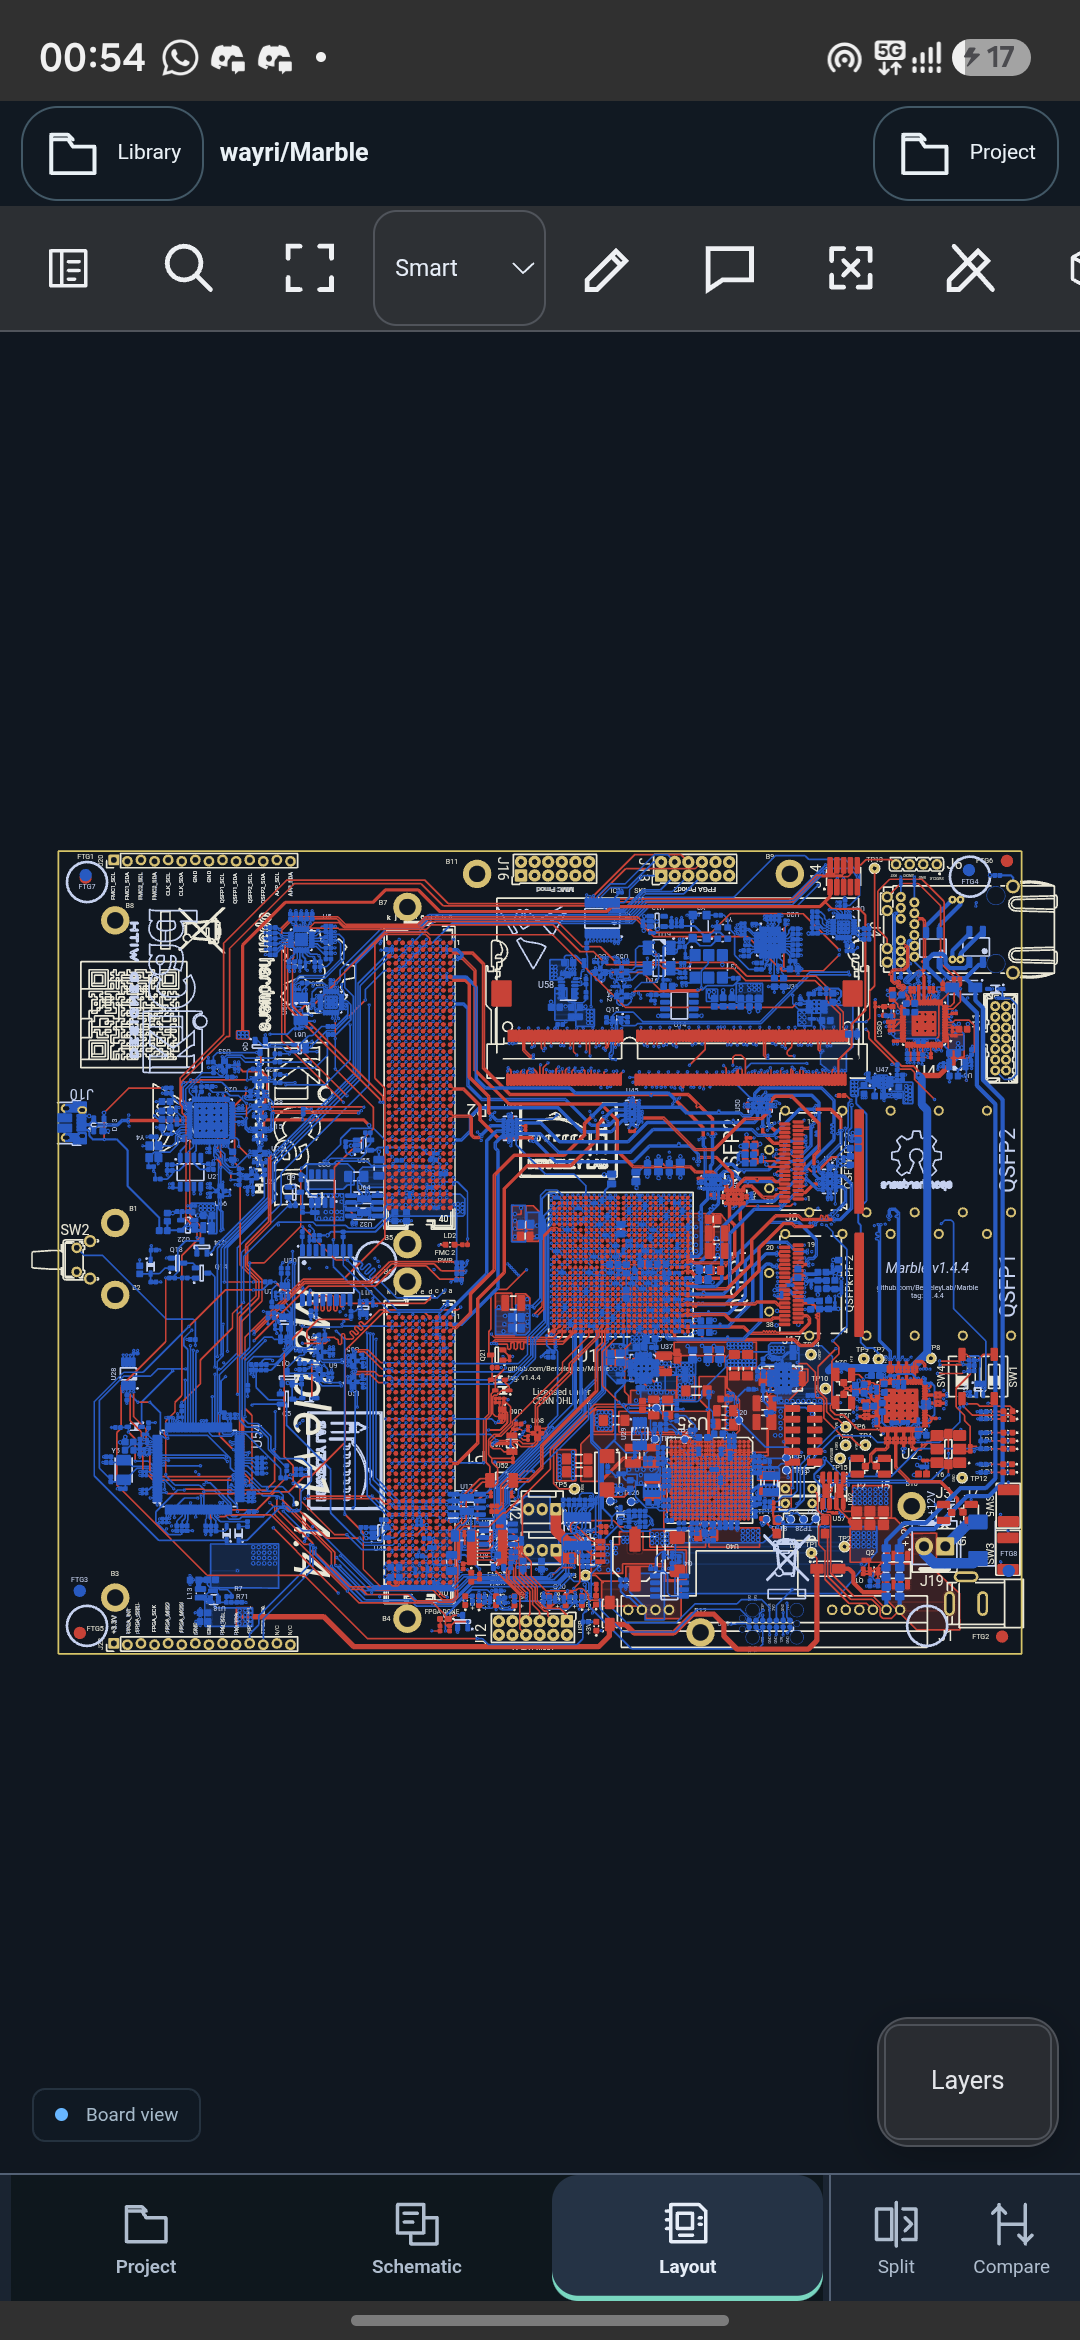
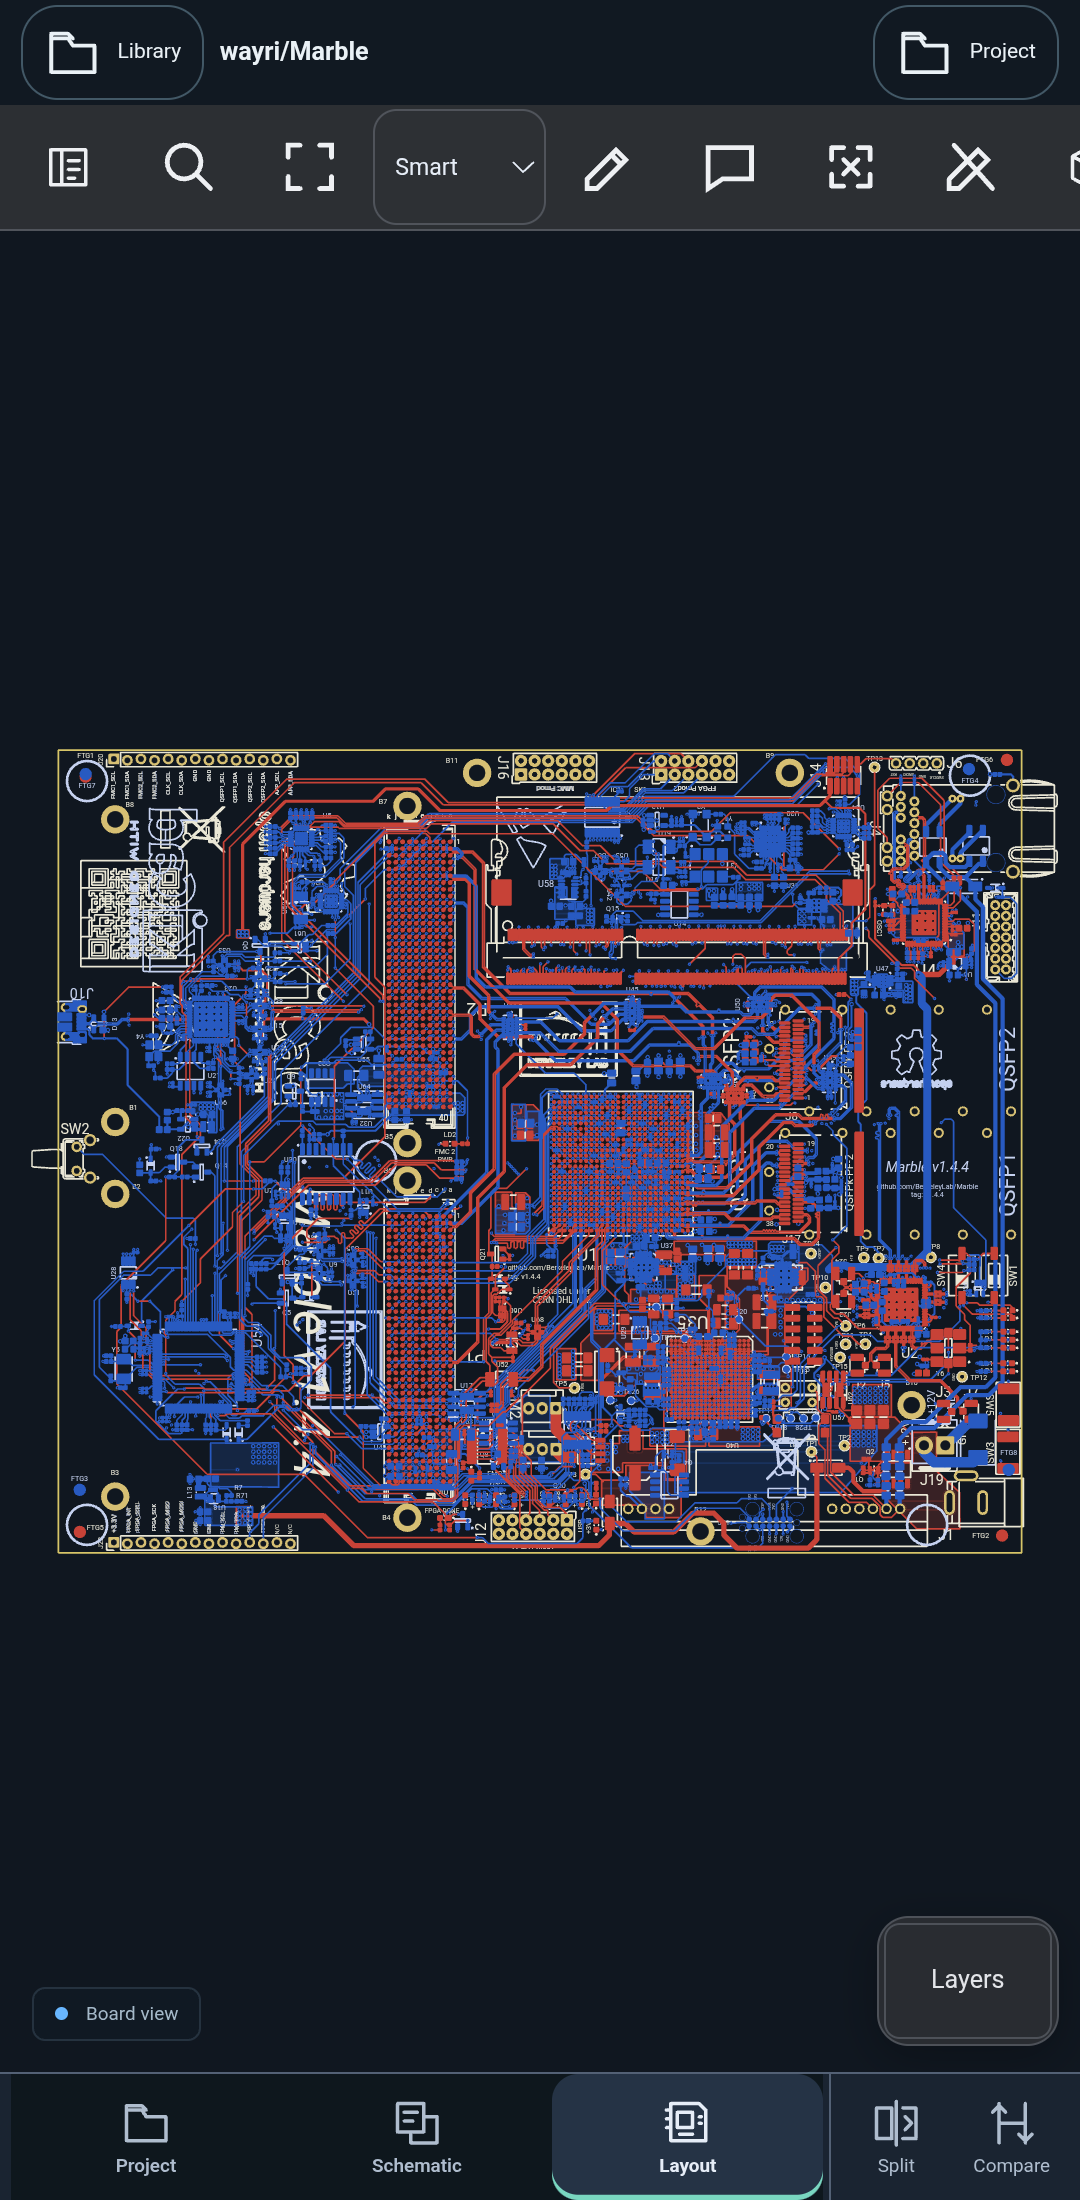
Crop system bars and taskbar fragments from public screenshots

diff --git a/docs/images/README.md b/docs/images/README.md
@@ -88,11 +88,11 @@ The Android capture build passed `assembleDebug`, `assembleDebugAndroidTest` and
 
 ## README platform galleries — 24 October 2026
 
-The expanded root README reuses retained screenshots; no UI mockups or generated images were added. New documentation copies are byte-for-byte copies of the original capture files. The documentation update is not a new app capture or a test of the newest APK/VSIX. Click-through images keep original resolution.
+The expanded root README reuses retained screenshots; no UI mockups or generated images were added. Documentation copies retain the original app pixels; the app-only crops listed below remove system/browser chrome. The documentation update is not a new app capture or a test of the newest APK/VSIX. Click-through images keep original resolution.
 
 | Documentation image | Retained source | Context |
 | --- | --- | --- |
-| `chrome/schematic.png` | `dist/chrome-store-0.12.49/screenshots/01-schematic-1280x800.png` | Installed Chrome extension, local PIC Programmer schematic from the public KiCad demo. Browser chrome is visible. |
+| `chrome/schematic.png` | `dist/chrome-store-0.12.49/screenshots/01-schematic-1280x800.png` | Installed Chrome extension, local PIC Programmer schematic from the public KiCad demo. Browser tab/address bars are cropped out. |
 | `chrome/pcb.png` | `dist/chrome-store-0.12.49/screenshots/02-pcb-1280x800.png` | Same installed Chrome extension and local PCB demo. No live repository authentication is demonstrated. |
 | `chrome/bom-field-table.jpg` | `dist/chrome-store-0.12.50/evidence/bom-layout-improved.jpg` | Loopback local workspace, PIC Programmer demo, expanded BoM table and compact header. No Chrome browser frame is in this capture. |
 | `android/marble-phone-layout.png` | `dist/ui-polish/marble-phone-layout.png` | Physical Samsung SM-A366E, Android development 1.55/code58, 14 October 2026; public Marble drawing. Retained device-test notes record a complete 2D render. It is not a capture of 1.59. |
@@ -117,3 +117,16 @@ The five files in `current/` show the production 0.12.62 renderer and shared wor
 - `pcb-workspace-0.12.62.png` and `schematic-workspace-0.12.62.png`: the production schematic/PCB viewer pages with the same public demo PCB, root schematic and `pic_sockets.kicad_sch`, supplied by a local read-only mock repository transport. The fixture revision identifier is synthetic; it is not an upstream KiCad commit. These demonstrate the current shared UI without live GitHub/GitLab authentication or posting.
 
[1 lines of base64/hex data omitted]
+
+
+## App-only crop corrections (2026-10-27)
+
+Reviewed all 72 documentation and VS Code screenshots, including enlarged top/bottom edges. Nine images needed corrections:
+
+| Files | Original size | Retained rectangle (left, top, right, bottom; exclusive right/bottom) | Result |
+| --- | --- | --- | --- |
+| `android/marble-phone-layout.png` | 1080 × 2340 | (0, 101, 1080, 2301) | 1080 × 2200; Android status/gesture bars removed |
+| `chrome/pcb.png`, `chrome/schematic.png` | 1280 × 800 | (0, 95, 1280, 800) | 1280 × 705; browser tab/address bars removed |
+| All six `vscode-extension/images/*.jpg` captures | 1441 × 891 | (0, 0, 1441, 858) | 1441 × 858; desktop taskbar fragments and editor status-bar strip removed |
+
+The application toolbars, drawing areas and relevant editor context remain. PNG crops preserve retained pixels exactly; cropped JPEGs are re-encoded at quality 97 with no chroma subsampling. No UI text, models or design content was reconstructed or generated. The other 63 captures, including the new linked-model renders and existing phone/tablet WebView captures, were unchanged. These are crop corrections to retained captures, not new device or current-version acceptance tests. Original release archives and capture evidence remain unchanged.

diff --git a/vscode-extension/README.md b/vscode-extension/README.md
@@ -2,7 +2,7 @@
 
 Open KiCad schematics and PCBs beside your code—without installing KiCad. Inspect a design, review assembly fields, leave notes, and compare Git conflicts visually.
 
-![Schematic review inside VS Code](https://raw.githubusercontent.com/wayri/kiview-marketplace-assets/7542d75ae3afbfd9444255ddcf330455742672bf/schematic-review.jpg)
+![Schematic review inside VS Code](https://raw.githubusercontent.com/wayri/kiview-marketplace-assets/634d2135944e9d2601b178864514df8d9aa9243a/schematic-review.jpg)
 
 ## Open your first project
 
@@ -14,17 +14,17 @@ Open KiCad schematics and PCBs beside your code—without installing KiCad. Insp
 
 You can also press **Ctrl+Shift+P** and run **KiCad: Open Visual Viewer**.
 
-![Open the visual viewer from the VS Code Command Palette](https://raw.githubusercontent.com/wayri/kiview-marketplace-assets/7542d75ae3afbfd9444255ddcf330455742672bf/open-viewer-command.jpg)
+![Open the visual viewer from the VS Code Command Palette](https://raw.githubusercontent.com/wayri/kiview-marketplace-assets/634d2135944e9d2601b178864514df8d9aa9243a/open-viewer-command.jpg)
 
 ## Inspect the board
 
 Pan, zoom, flip the board and focus copper layers. Press **M** to measure in 2D. Select a component or net to inspect its saved properties.
 
-![PCB inspection and drawing tools](https://raw.githubusercontent.com/wayri/kiview-marketplace-assets/7542d75ae3afbfd9444255ddcf330455742672bf/pcb-inspection.jpg)
+![PCB inspection and drawing tools](https://raw.githubusercontent.com/wayri/kiview-marketplace-assets/634d2135944e9d2601b178864514df8d9aa9243a/pcb-inspection.jpg)
 
 Turn on **Layers → Net names** to label traces and filled copper where there is room. Names stay upright when the board is flipped.
 
-![Copper net names in the installed VS Code extension](https://raw.githubusercontent.com/wayri/kiview-marketplace-assets/7542d75ae3afbfd9444255ddcf330455742672bf/copper-net-names.jpg)
+![Copper net names in the installed VS Code extension](https://raw.githubusercontent.com/wayri/kiview-marketplace-assets/634d2135944e9d2601b178864514df8d9aa9243a/copper-net-names.jpg)
 
 For linked schematic/PCB inspection, run **KiCad: Open Paired Schematic and PCB Review**. Matching saved identities support cross-probing. Drag the native VS Code editor-group divider to resize the two views.
 
@@ -32,7 +32,7 @@ For linked schematic/PCB inspection, run **KiCad: Open Paired Schematic and PCB 
 
 Open the drawing's **BoM manager**: a full-width table with sticky headers and a fixed reference column. Search and grouping stay visible; columns, filters and import/export collapse to keep the rows in focus. Choose columns and grouping, filter fitted/DNP parts, locate references and export the visible CSV. Review variants and highlight DNP/DNI footprints without changing the source design.
 
-![KiCad-style BoM field table](https://raw.githubusercontent.com/wayri/kiview-marketplace-assets/7542d75ae3afbfd9444255ddcf330455742672bf/assembly-bom.jpg)
+![KiCad-style BoM field table](https://raw.githubusercontent.com/wayri/kiview-marketplace-assets/634d2135944e9d2601b178864514df8d9aa9243a/assembly-bom.jpg)
 
 **Testpoints & nets** helps plan probing. Board analytics and saved ERC/DRC reports help review existing design data. Available workspace models can load in the 3D board view. Measure works in 2D and between 3D model surfaces, with five-entry session history. **Tools → Reports** opens saved KiCad Monkey design/netlist JSON and analysis data in a native Results tab.
 
@@ -46,7 +46,7 @@ Open **Repository** from the drawing tools to browse working files, status colou
 2. Compare **Current** and **Incoming**, then choose one side for all conflict blocks.
 3. Save a copy, or confirm replacement of the original. Staging is a separate confirmed action.
 
-![Current and Incoming conflict comparison](https://raw.githubusercontent.com/wayri/kiview-marketplace-assets/7542d75ae3afbfd9444255ddcf330455742672bf/visual-merge-conflict.jpg)
+![Current and Incoming conflict comparison](https://raw.githubusercontent.com/wayri/kiview-marketplace-assets/634d2135944e9d2601b178864514df8d9aa9243a/visual-merge-conflict.jpg)
 
 This accepts a whole side across the file; it is not a per-object merger. Saving requires a trusted workspace. No commit or push happens automatically.
 

diff --git a/vscode-extension/images/SCREENSHOT-SOURCES.md b/vscode-extension/images/SCREENSHOT-SOURCES.md
@@ -1,2 +1,4 @@
 Public KiCad 10 PIC Programmer demo copied from the installed KiCad distribution.
 visual-conflict.kicad_pcb is an intentionally generated demonstration conflict: the incoming side changes one footprint Value field. It is not a real customer merge or electrical redesign.
+
+2026-10-27: all six JPEGs cropped from 1441 × 891 to 1441 × 858, retaining rectangle (0, 0, 1441, 858). This removes desktop taskbar fragments and the editor status-bar strip. App/editor content is otherwise unchanged; JPEGs re-encoded at quality 97, no chroma subsampling.
